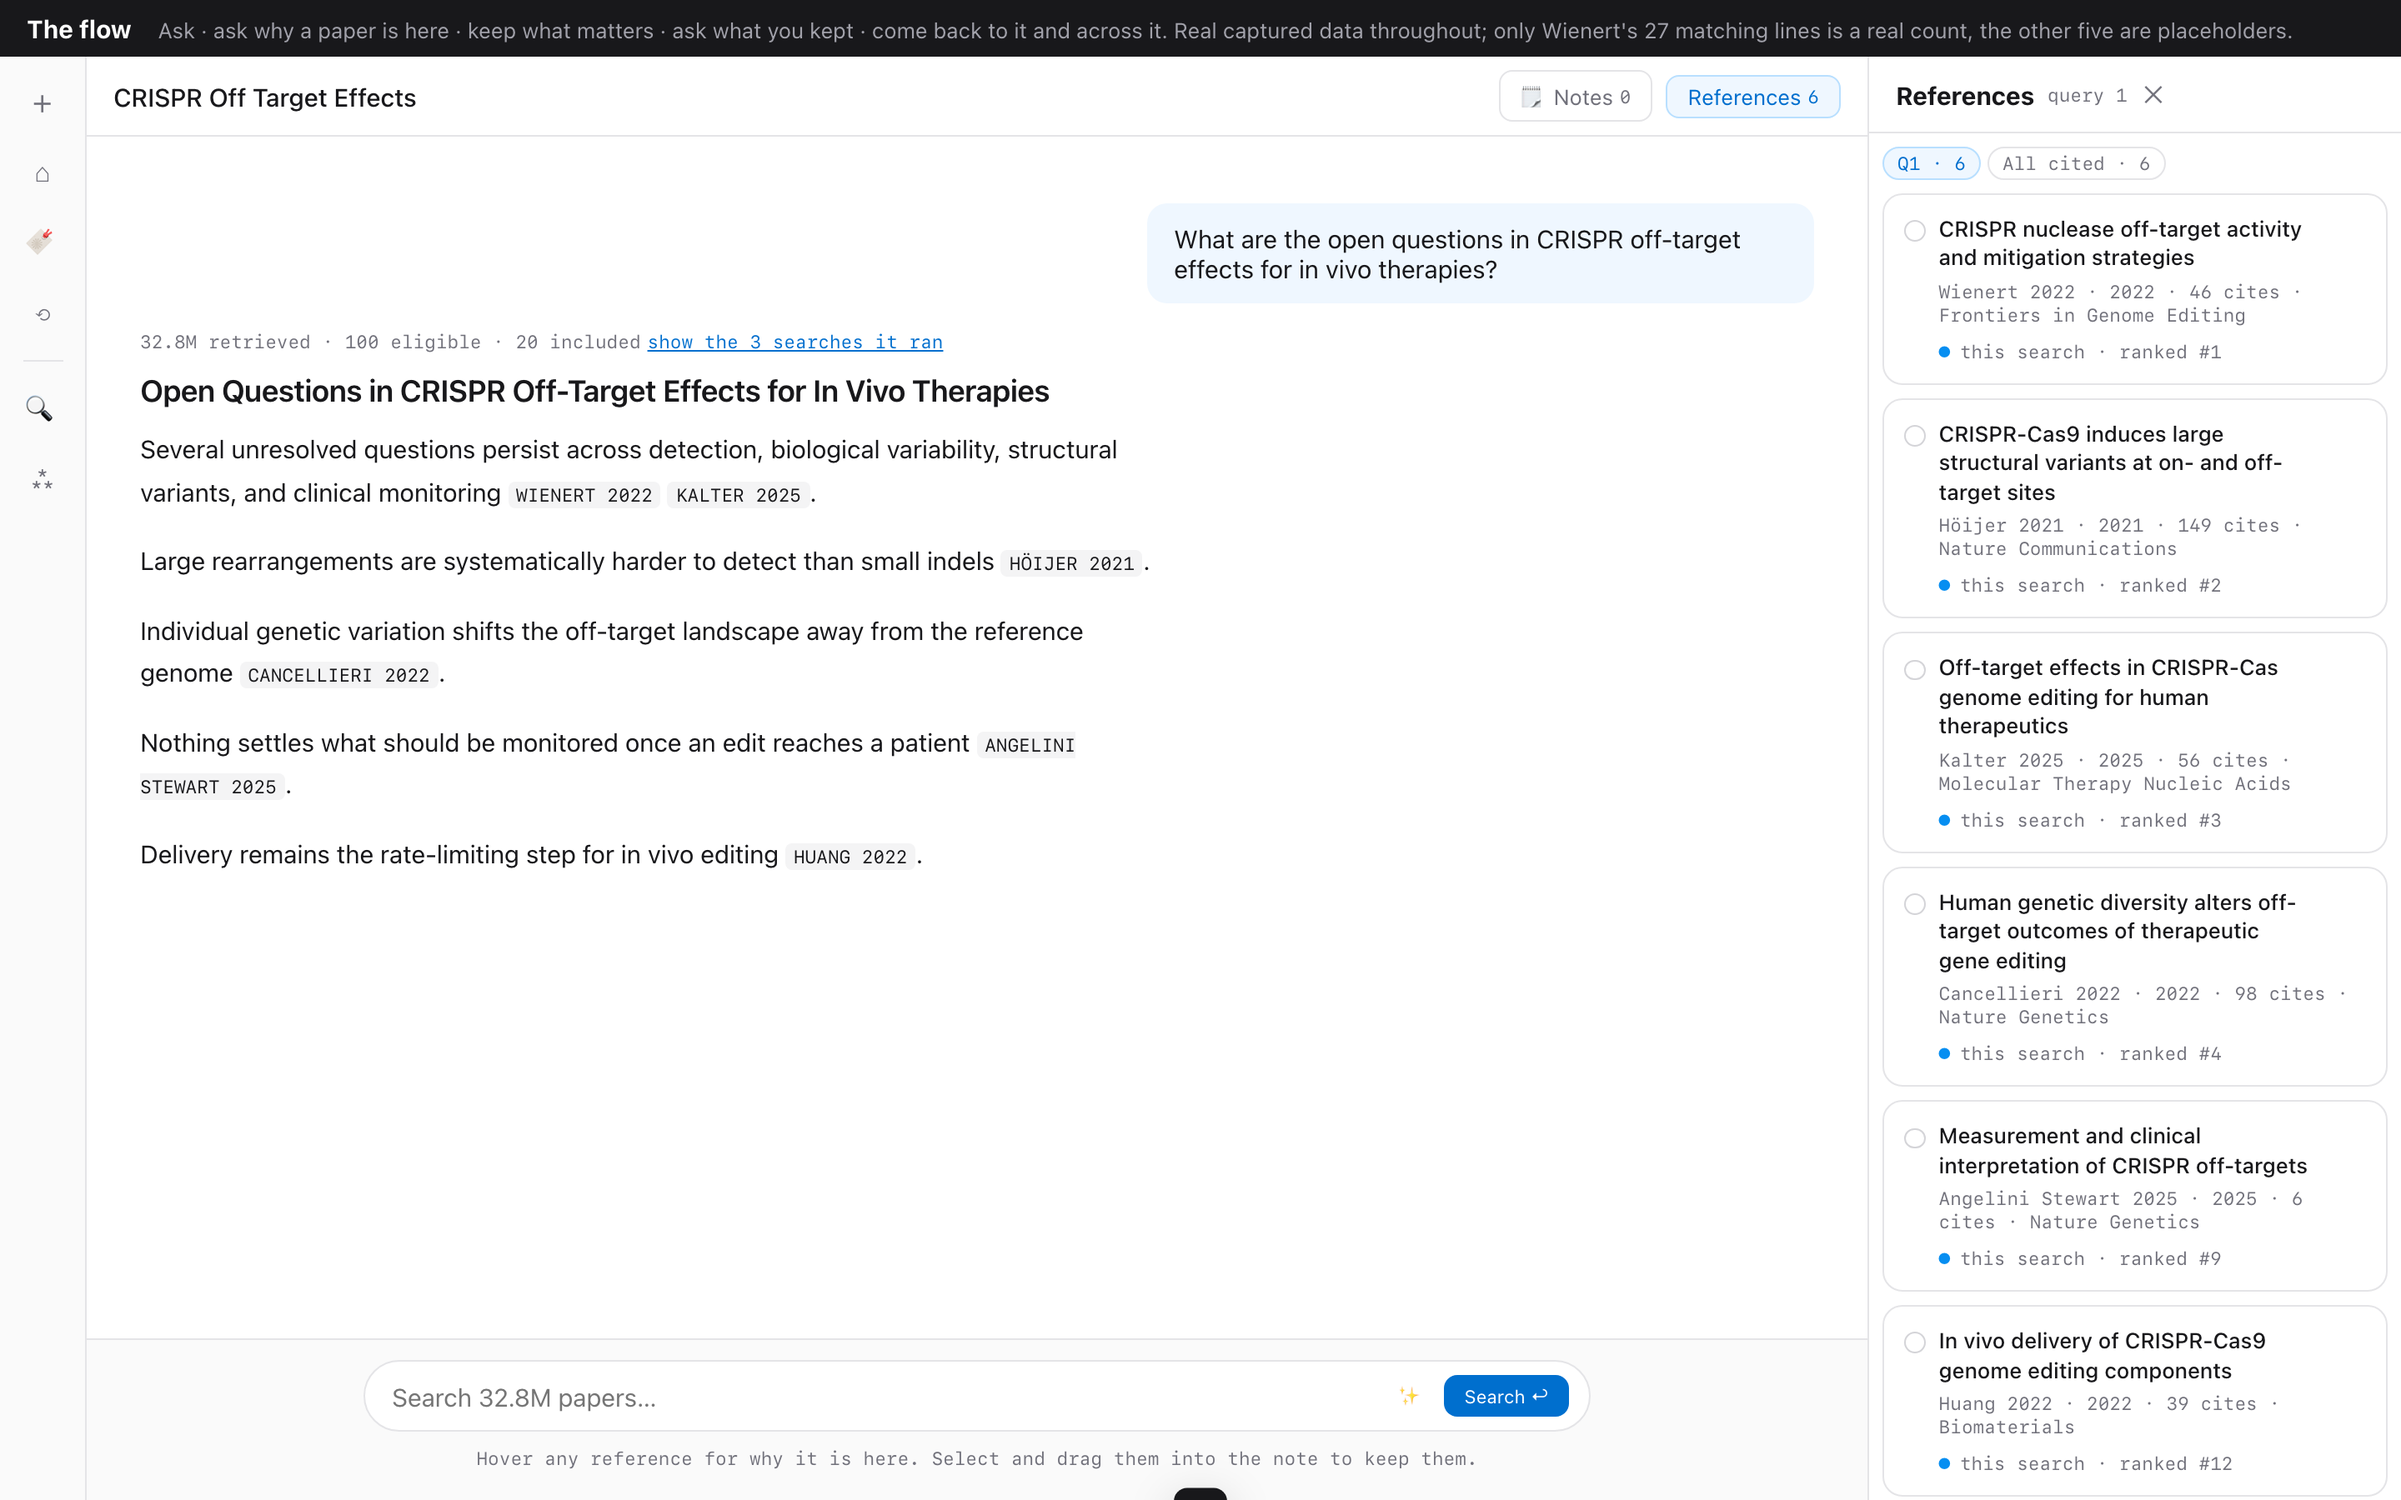
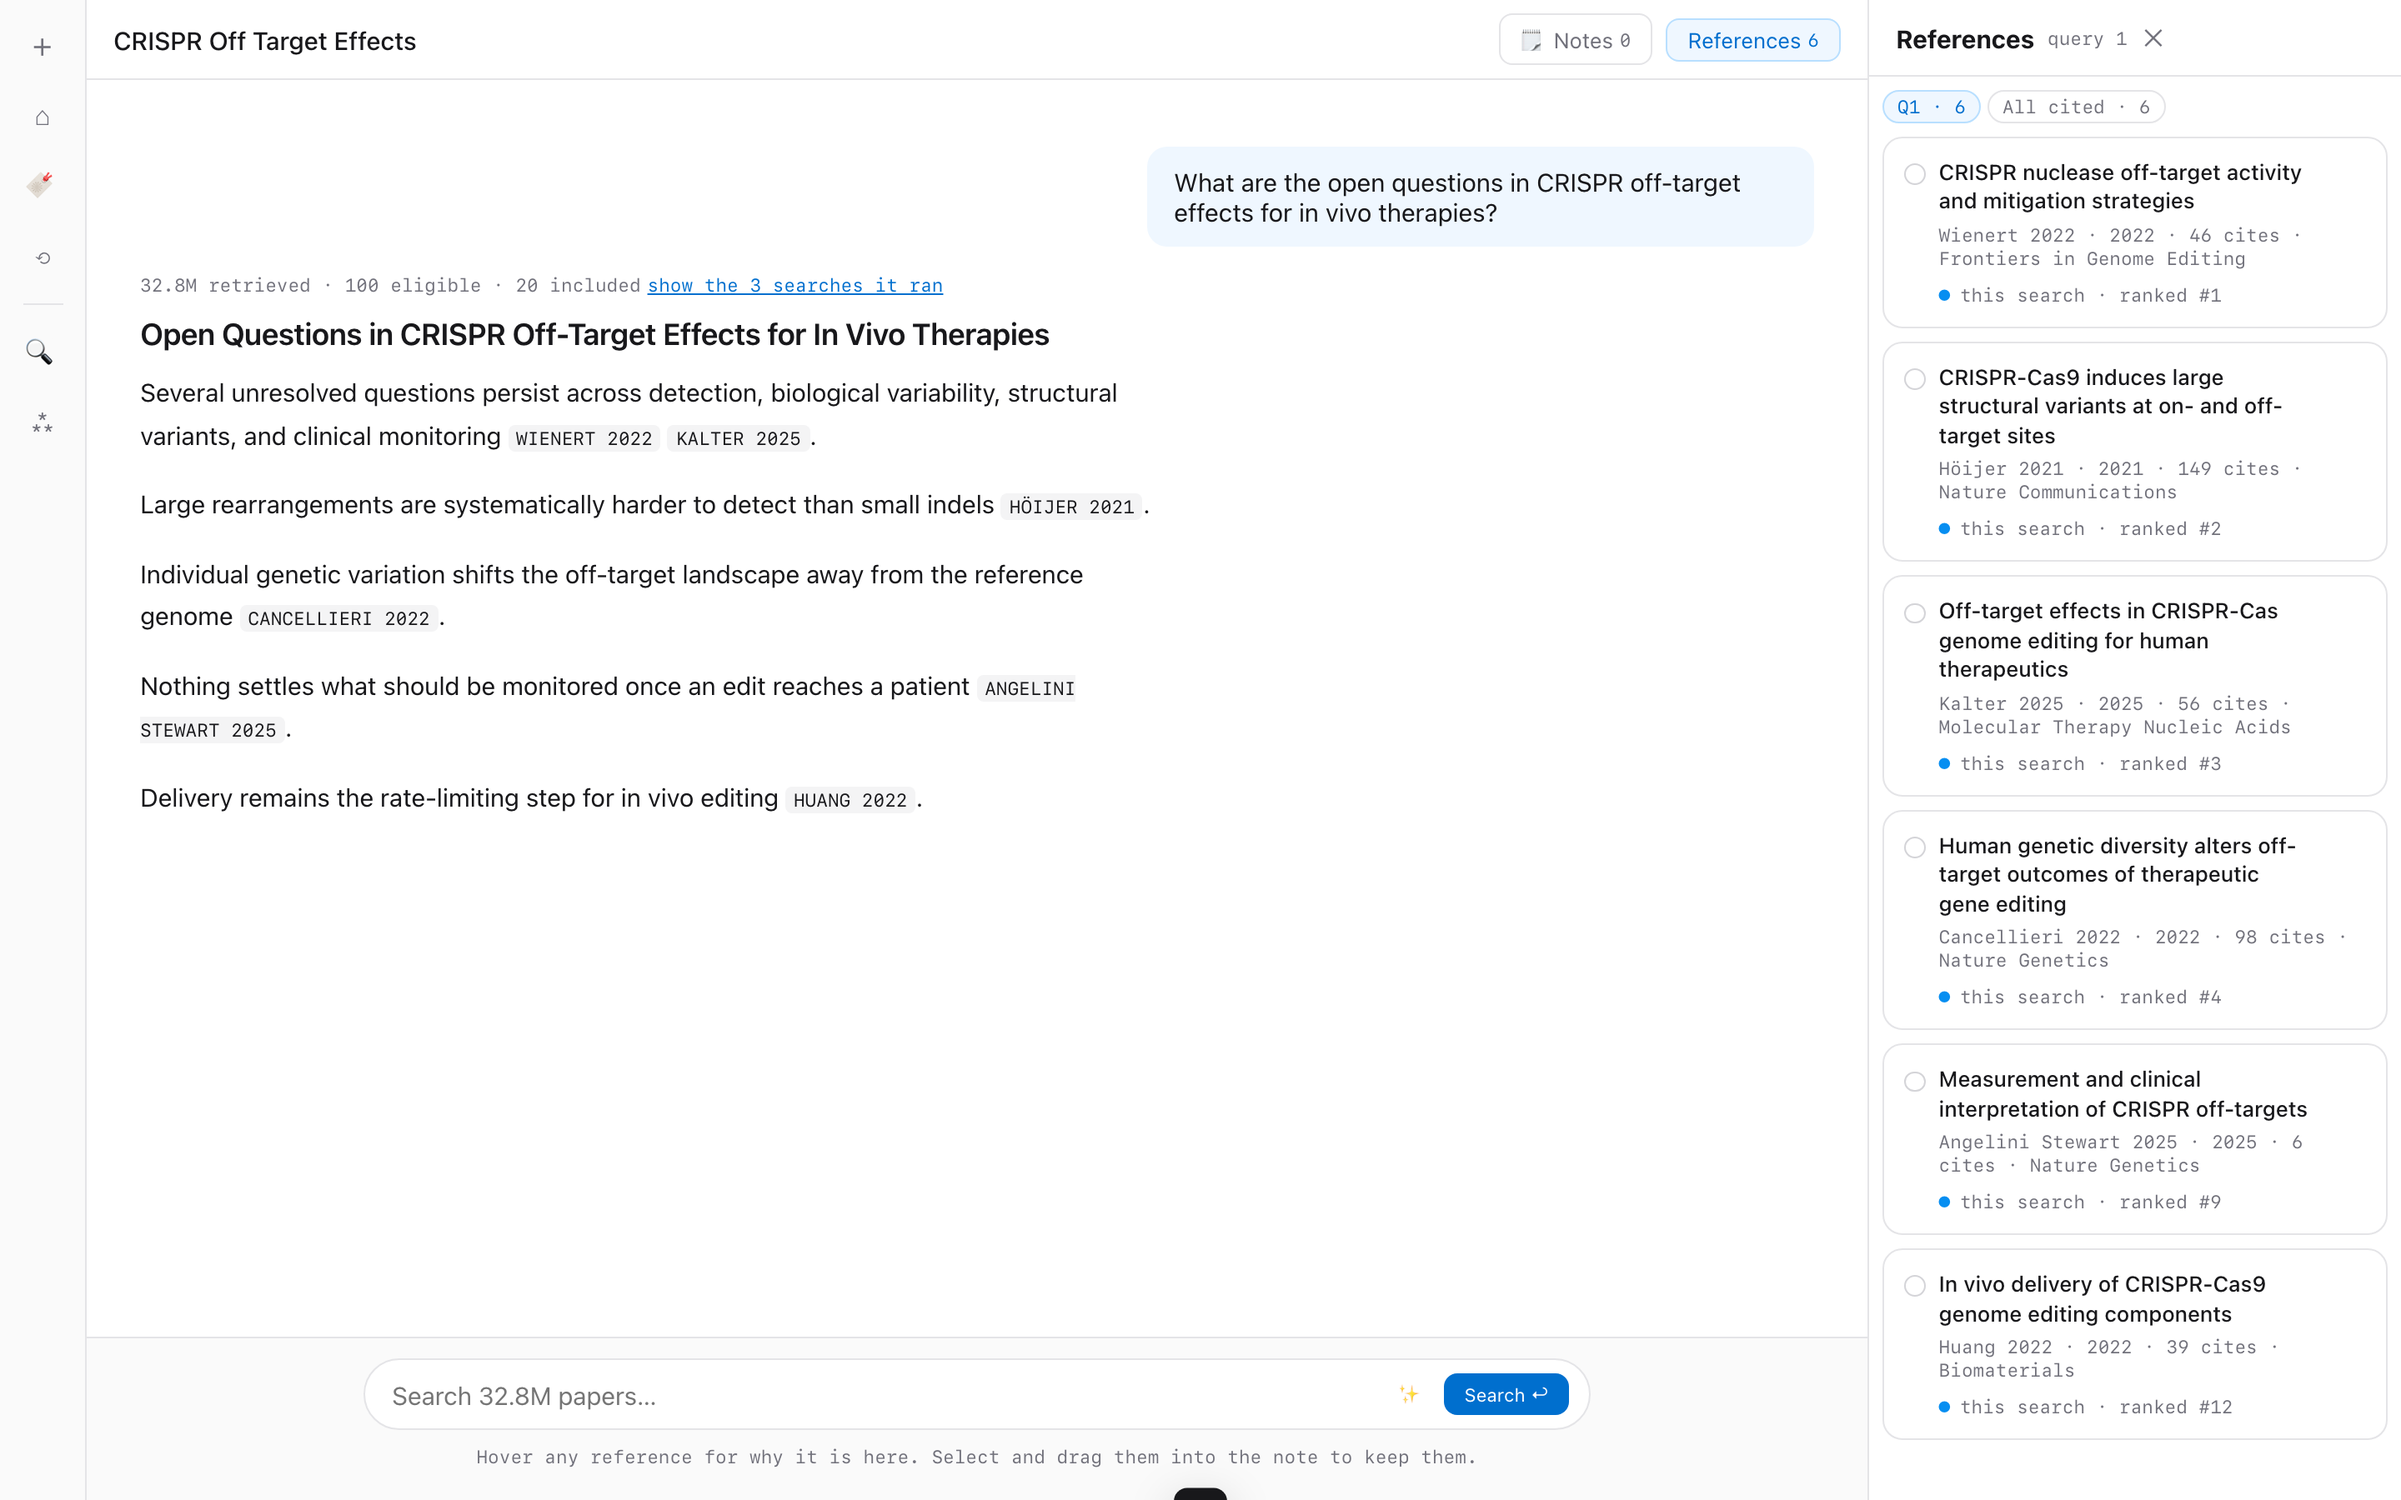
Your own words go in only if you say so
The include-my-notes opt-in was lost in the assembly, and it is the one piece
of this whose absence is a privacy problem rather than a missing convenience.

A card's sources and a card's text are different kinds of thing. The sources
are published artefacts. The text is the researcher thinking out loud, and in
this very prototype one of the seeded cards reads "Ask Sarah whether anyone has
run this on liver-directed guides." Attaching a note and silently sending that
along is not a feature.

So the chip is back beside the attachment: "＋ include my notes (1)", off by
default, naming how many cards would go in. Turning it on says "Your own words
go in with the sources"; turning it off says "Sources only — what you wrote
stays out of it". The answer's own funnel line then records which of the two it
was, so the decision is visible after the fact and not just at the moment of
asking.

The "The flow" banner is removed and the app takes the full viewport. It was
scaffolding for a page of prototypes, and this is not one of those any more.

Also caught: the drive walked step 6 without ever writing a note, so the opt-in
had nothing to offer and the assertion failed for the right reason. The drive
now types into a card first, which is what step 6 of the script actually says.

55 assertions, console clean.

Claude-Session: https://claude.ai/code/session_01NWtFYS7oanXXxkpZBLbEsj

diff --git a/prototypes/flow.html b/prototypes/flow.html
@@ -17,9 +17,7 @@
 }
 *{box-sizing:border-box;margin:0;padding:0}
 body{font-family:var(--sans);color:var(--fg);background:var(--bg);font-size:var(--t-base);-webkit-font-smoothing:antialiased}
-.proto{background:var(--fg);color:#fff;padding:var(--s-xs) var(--s-md);display:flex;gap:var(--s-md);align-items:baseline;font-size:var(--t-xs)}
-.proto b{font-size:var(--t-sm);white-space:nowrap}.proto span{color:#a1a1aa}
-.app{display:grid;grid-template-columns:3.25rem 1fr;height:calc(100vh - 33px);overflow:hidden}
+.app{display:grid;grid-template-columns:3.25rem 1fr;height:100vh;overflow:hidden}
 .app>*{min-height:0}
 .rail{border-right:1px solid var(--bd);display:flex;flex-direction:column;align-items:center;gap:var(--s-xs);padding:var(--s-sm) 0;background:var(--mist)}
 .rail button{width:2.1rem;height:2.1rem;border-radius:var(--r-sm);border:0;background:transparent;cursor:pointer;font-size:var(--t-base);line-height:1;color:var(--muted);position:relative}
@@ -74,6 +72,13 @@ body{font-family:var(--sans);color:var(--fg);background:var(--bg);font-size:var(
 .attach{display:flex;align-items:center;gap:var(--s-2xs);font-family:var(--mono);font-size:var(--t-2xs);
   color:var(--accent-emph);background:var(--accent-subtle);border:1px solid var(--accent-bd);border-radius:625rem;padding:1px var(--s-xs)}
 .attach .x{cursor:pointer;color:var(--muted)}
+/* the sources are public artefacts; what you wrote about them is not, so it
+   goes in only when you say so */
+.incl{display:none;font-family:var(--mono);font-size:var(--t-2xs);color:var(--muted);background:#fff;
+  border:1px dashed var(--bd-emph);border-radius:625rem;padding:1px var(--s-xs);cursor:pointer;white-space:nowrap}
+.incl.show{display:inline-block}
+.incl:hover{border-color:var(--accent-bd);color:var(--accent-emph)}
+.incl.on{border-style:solid;border-color:var(--paper-bd);background:var(--paper);color:var(--warn)}
 .ask .line{display:flex;gap:var(--s-xs);align-items:center}
 .ask input{flex:1;border:0;outline:0;font-family:inherit;font-size:var(--t-sm);background:transparent}
 /* a quiet demo affordance: fills the next scripted question, never fires it */
@@ -352,7 +357,7 @@ body.dragging #notesPane{background:#fffdf5;box-shadow:inset 0 0 0 2px var(--acc
 </style>
 </head>
 <body>
-<div class="proto"><b>The flow</b><span>Ask · ask why a paper is here · keep what matters · ask what you kept · come back to it and across it. Real captured data throughout; only Wienert's 27 matching lines is a real count, the other five are placeholders.</span></div>
+
 
 <div class="app">
   <nav class="rail">
@@ -372,7 +377,8 @@ body.dragging #notesPane{background:#fffdf5;box-shadow:inset 0 0 0 2px var(--acc
         <div class="ask" id="ask">
           <div class="askwrap">
           <div class="box">
-            <div class="attachrow"><span class="attach"><span id="attLab"></span><span class="x" id="attX">✕</span></span></div>
+            <div class="attachrow"><span class="attach"><span id="attLab"></span><span class="x" id="attX">✕</span></span>
+              <span class="incl" id="inclNotes">＋ include my notes</span></div>
             <div class="line"><input placeholder="Search 32.8M papers…" id="askInput">
               <button class="seed" id="seedBtn" title="Demo: fill the next question">✨</button>
               <button class="send" id="sendBtn">Search ↩</button></div>
@@ -698,6 +704,7 @@ function submit(){
     const q={q:text,title:text.charAt(0).toUpperCase()+text.slice(1).replace(/\?+$/,''),refs,
       scoped, att:scoped?('📎 '+noteSrcs().length+' sources from your note'):null,
       funnel:scoped?('answered within your note · '+pool.length+' sources'+
+                     (inclNotes?' · your own notes included':' · sources only')+
                      (filtered()?' · filtered by '+filterLabel():'')+' · nothing new retrieved')
                    :('keyword-matched over 6 captured papers · '+refs.length+' included'),
       paras:[]};
@@ -707,7 +714,7 @@ function submit(){
       if(raised!=null) q.paras.push('Nothing outside your note was retrieved. But the closest paper in '+
         'this thread that you have <b>not</b> kept is [['+raised+']] — it is in your references and not '+
         'in your note.');
-      $('ask').classList.remove('scoped'); attached=null;
+      $('ask').classList.remove('scoped'); attached=null; attachedCards=[]; inclNotes=false; drawIncl();
     } else {
       q.paras=['The strongest evidence here comes from [['+top[0]+']]'+(top[1]!=null?' and [['+top[1]+']]':'')+'.',
         top[2]!=null?'[['+top[2]+']] came back lower and is worth checking before you rely on it.':''].filter(Boolean);
@@ -972,12 +979,29 @@ function render(){
     :'Hover any reference for why it is here. Select and drag them into the note to keep them.';
   syncInNote();
 }
-let attached=null;
-function attach(n,srcs,label){if(!n){toast('Nothing to attach');return}
+let attached=null, attachedCards=[], inclNotes=false;
+function attach(n,srcs,label,cards){
+  if(!n){toast('Nothing to attach');return}
   attached=srcs||noteSrcs();
+  attachedCards=(cards||askCards()).filter(c=>c.text&&c.text.trim());
+  inclNotes=false;
   $('ask').classList.add('scoped');
-  $('attLab').textContent='📎 Papers · '+n+' attached'+(label?' · '+label:(filtered()&&!label?' · filtered by '+filterLabel():''));
-  $('sendBtn').textContent='Ask ↩';$('askInput').focus()}
+  $('attLab').textContent='📎 Papers · '+n+' attached'+
+    (label?' · '+label:(filtered()?' · filtered by '+filterLabel():''));
+  drawIncl();
+  $('sendBtn').textContent='Ask ↩';$('askInput').focus();
+}
+function drawIncl(){
+  const el=$('incl'+'Notes'), n=attachedCards.length;
+  el.classList.toggle('show',n>0);
+  el.classList.toggle('on',inclNotes);
+  el.textContent=inclNotes
+    ? '✓ '+n+(n===1?' note included':' notes included')
+    : '＋ include my notes ('+n+')';
+}
+$('inclNotes').addEventListener('click',()=>{inclNotes=!inclNotes;drawIncl();
+  toast(inclNotes?'Your own words go in with the sources'
+                 :'Sources only — what you wrote stays out of it')});
 /* a card can be dragged straight into the composer */
 $('ask').addEventListener('dragover',e=>{if(dragCard!=null){e.preventDefault();$('ask').classList.add('dropok')}});
 $('ask').addEventListener('dragleave',()=>$('ask').classList.remove('dropok'));
@@ -999,7 +1023,8 @@ function openCardMenu(btn,c){
   mk('Delete this card',()=>{CARDS=CARDS.filter(x=>x.id!==c.id);render();toast('Card deleted')});
   place(m,btn);
 }
-$('attX').addEventListener('click',()=>{$('ask').classList.remove('scoped');attached=null;$('sendBtn').textContent='Search ↩'});
+$('attX').addEventListener('click',()=>{$('ask').classList.remove('scoped');attached=null;
+  attachedCards=[];inclNotes=false;$('sendBtn').textContent='Search ↩'});
 $('askNote').addEventListener('click',()=>attach(askSrcs().length,askSrcs()));
 function renderChips(){
   const el=$('chips'); el.innerHTML=''; el.classList.toggle('on',filtered());
@@ -1220,7 +1245,8 @@ function askNotes(){
   const t=document.createElement('div'); t.className='turn';
   const qd=document.createElement('div'); qd.className='q';
   const att=document.createElement('span'); att.className='att';
-  att.textContent='📎 '+notes.length+' notes · '+cards+' cards · '+srcs.length+' sources';
+  att.textContent='📎 '+notes.length+' notes · '+cards+' cards · '+srcs.length+
+    ' sources · your own notes included';
   qd.appendChild(att); qd.appendChild(document.createTextNode(q));
   t.appendChild(qd);
   const m=document.createElement('div'); m.className='scoped-mark';
